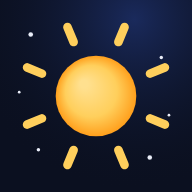
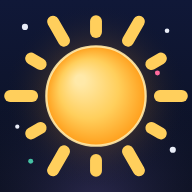
fix: flèche du menu conseils calée à droite ; feat: icône plus généreuse
La flèche ▾ du résumé repliable ne retombe plus seule à la ligne (summary
en flex, flèche en butée droite). Icône redessinée : soleil plus gros,
rayons dodus alternés, halo chaud, étincelles rose et sarcelle.

Claude-Session: https://claude.ai/code/session_016RLd6nfe4GmoqGh78MPXgT

diff --git a/css/style.css b/css/style.css
@@ -89,11 +89,16 @@ main { max-width: 980px; margin: 0 auto; padding: 18px 20px 40px; }
 /* ---------- conseils aux parents (repliés) ---------- */
 
 .conseils { margin: 34px 0 0; padding: 4px 22px; }
-.conseils summary { cursor: pointer; padding: 12px 0; list-style: none; }
+.conseils summary {
+  cursor: pointer; padding: 12px 0; list-style: none;
+  display: -webkit-flex; display: flex;
+  -webkit-align-items: center; align-items: center;
+  -webkit-justify-content: space-between; justify-content: space-between;
+}
 .conseils summary::-webkit-details-marker { display: none; }
-.conseils-titre { display: inline; font-size: 1.05rem; margin: 0; }
-.conseils summary::after { content: " ▾"; color: var(--muted); }
-.conseils details[open] summary::after { content: " ▴"; }
+.conseils-titre { font-size: 1.05rem; margin: 0; }
+.conseils summary::after { content: "▾"; color: var(--muted); margin-left: 10px; -webkit-flex-shrink: 0; flex-shrink: 0; }
+.conseils details[open] summary::after { content: "▴"; }
 .conseils-corps { padding: 0 0 18px; color: var(--muted); }
 .conseils-corps h3 { color: var(--text); font-size: .98rem; margin: 18px 0 6px; }
 .conseils-corps p { margin: 6px 0; }
